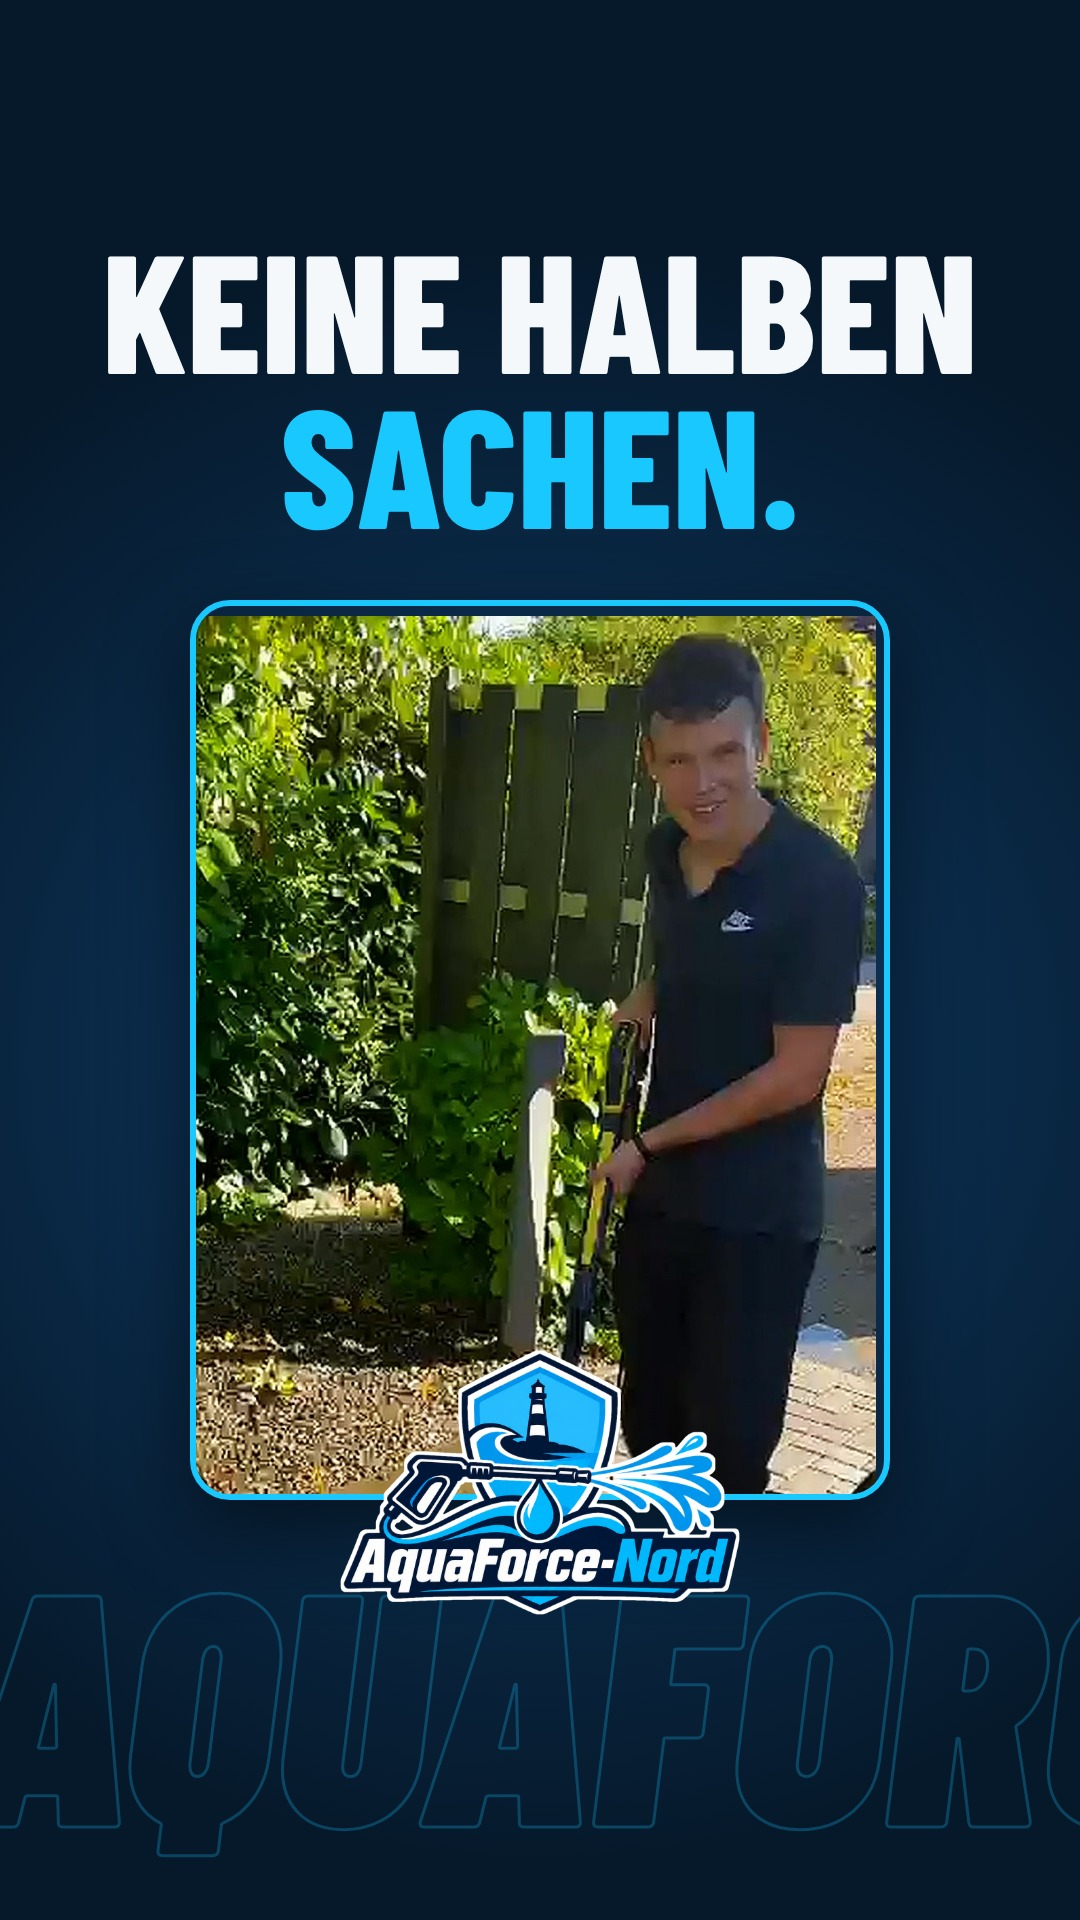
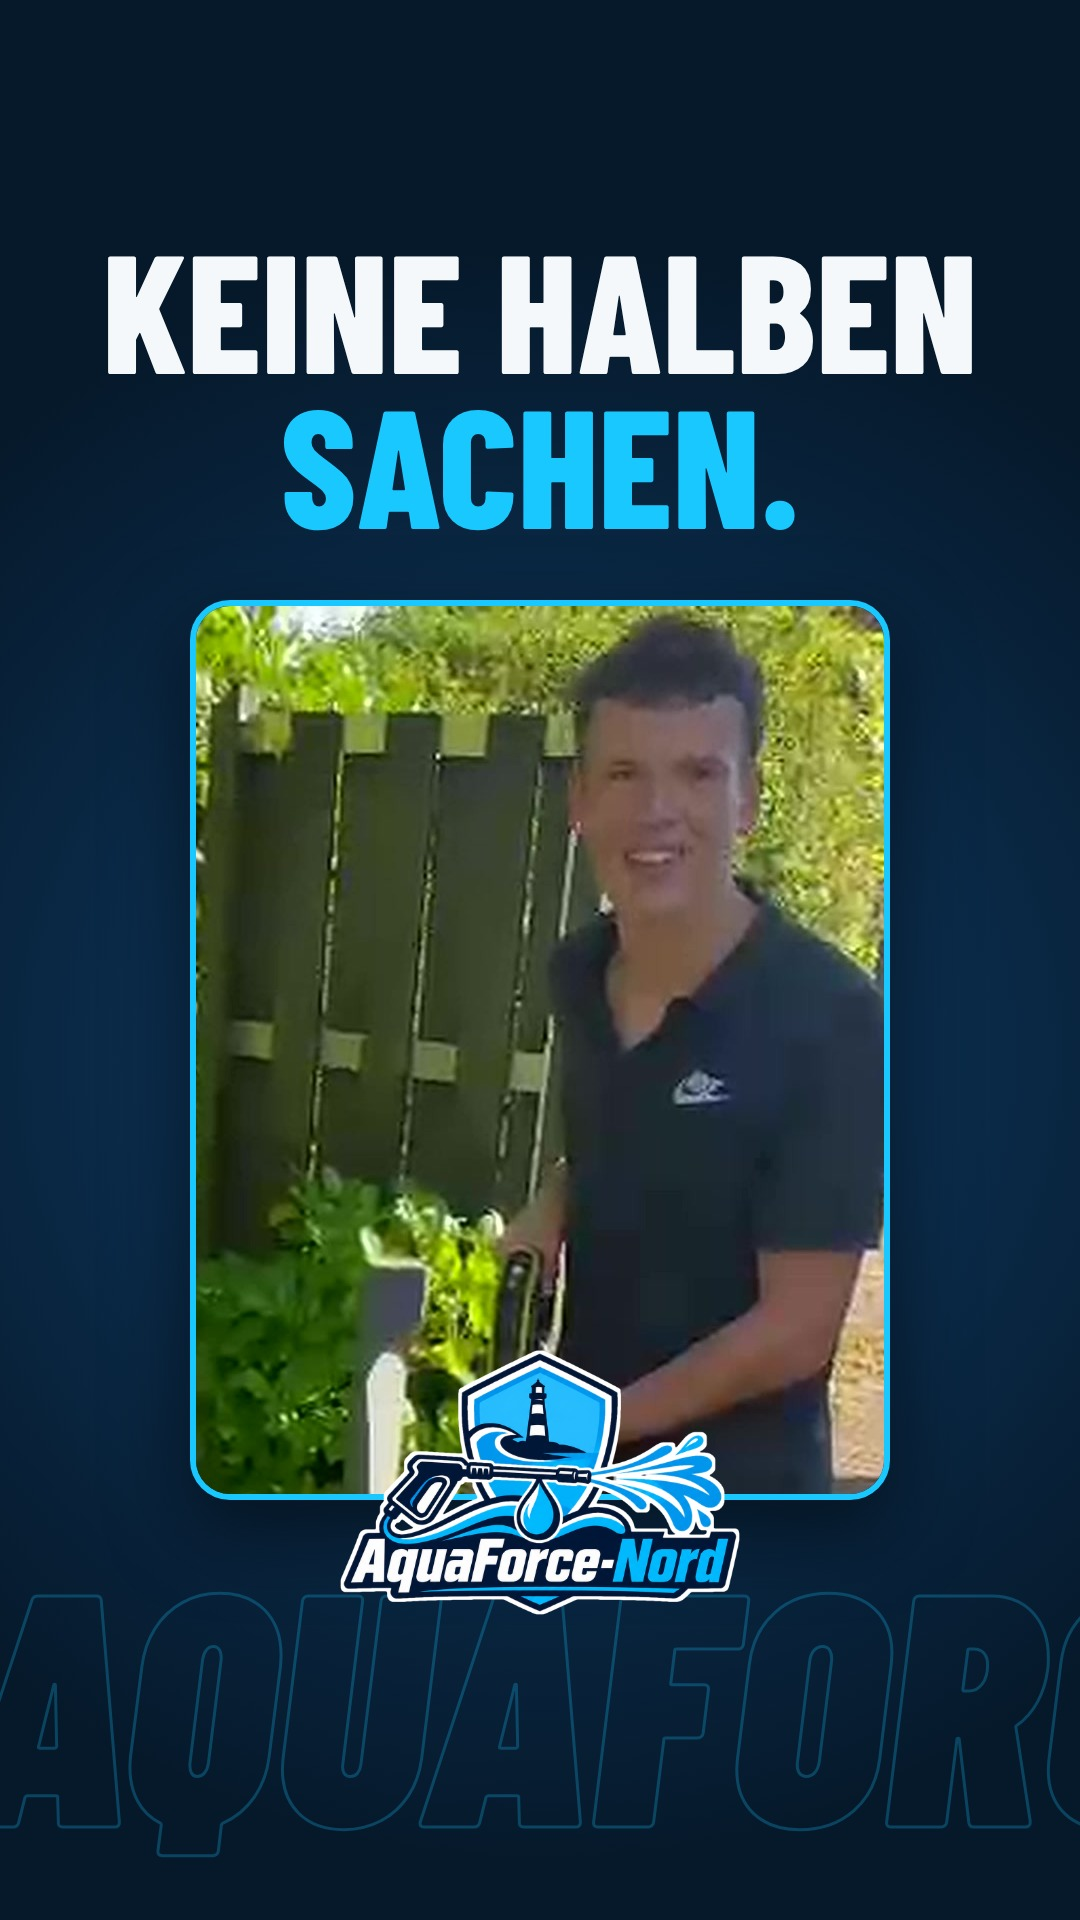
Reel 04 cover: use the smiling frame of the owner
Claude-Session: https://claude.ai/code/session_01DhXUaYhjs65V9jMC8Y8ZBU

Changed region(s): [[0.1833, 0.3125, 0.825, 0.7812]]

diff --git a/marketing-videos/thumbnails/04-markenfilm.html b/marketing-videos/thumbnails/04-markenfilm.html
@@ -11,14 +11,14 @@
   h1 { position: absolute; left: 0; top: 230px; width: 1080px; text-align: center; font-family: "Barlow Condensed"; font-weight: 800; font-size: 168px; line-height: .92; text-transform: uppercase; color: #f4f8fb; }
   h1 em { font-style: normal; color: #18c8ff; }
   .win { position: absolute; left: 190px; top: 600px; width: 700px; height: 900px; border-radius: 40px; overflow: hidden; border: 6px solid #18c8ff; box-shadow: 0 30px 80px rgba(0,0,0,.5); }
-  .win img { position: absolute; left: -200px; top: 10px; width: 880px; height: 1578px; object-fit: cover; }
+  .win img { position: absolute; left: -660px; top: 0px; width: 1392px; height: 2496px; object-fit: cover; }
   .logo { position: absolute; left: 330px; top: 1340px; width: 420px; }
 </style>
 </head>
 <body>
   <div class="marq">AQUAFORCE NORD</div>
   <h1>Keine halben<br /><em>Sachen.</em></h1>
-  <div class="win"><img src="../assets/img/worker.jpg" /></div>
+  <div class="win"><img src="../assets/img/worker_smile.jpg" /></div>
   <img class="logo" src="../assets/img/logo_sticker.png" />
 </body>
 </html>
